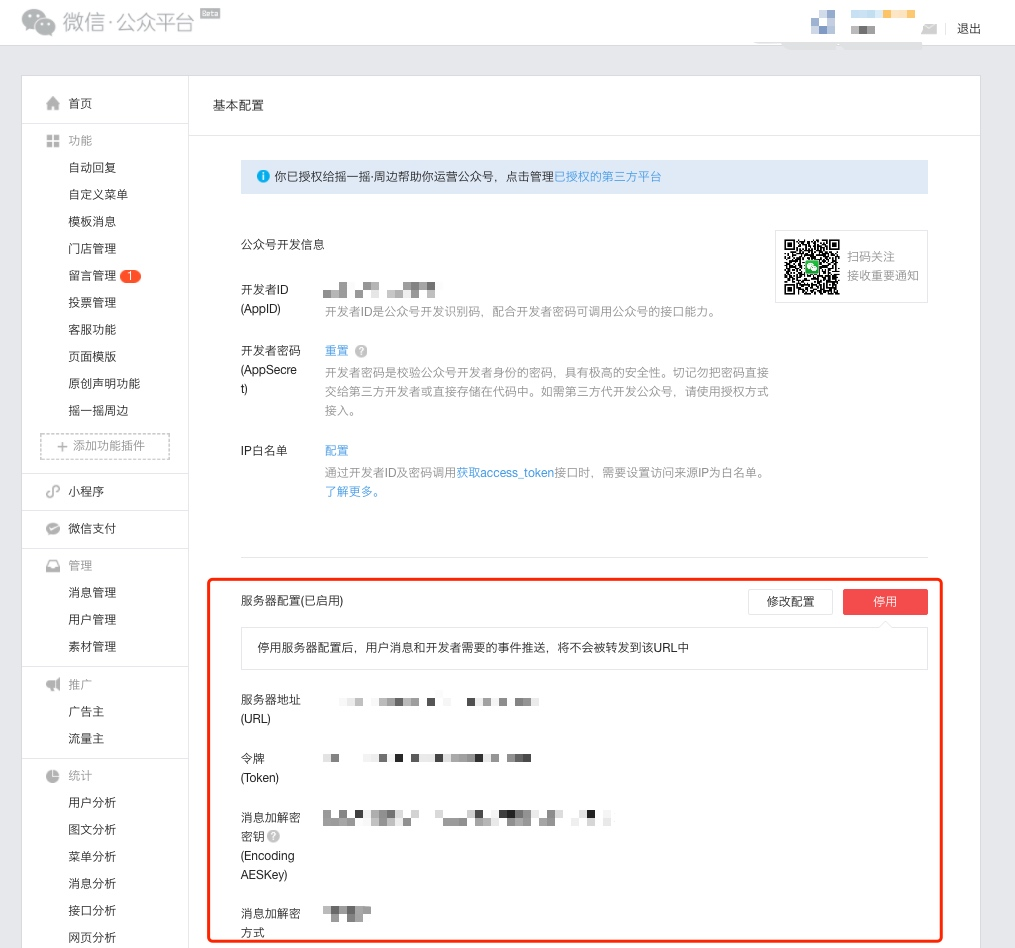
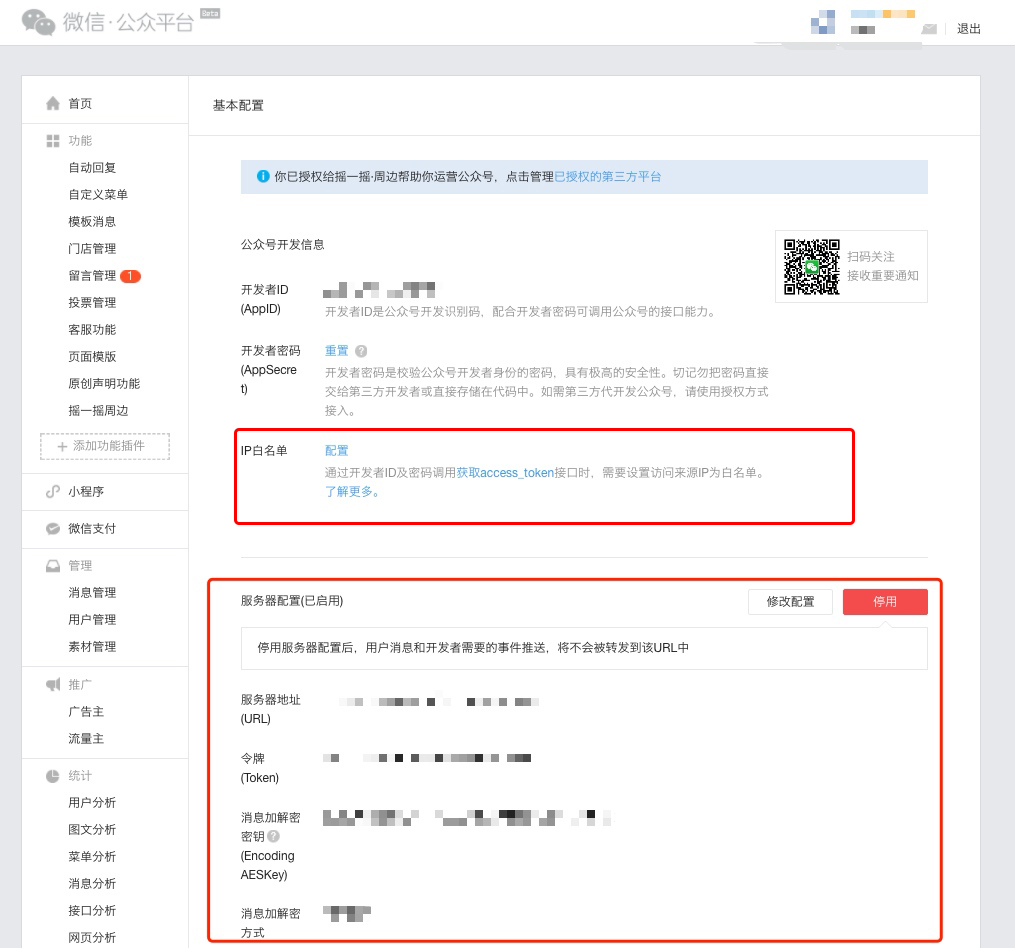
update weixin notify doc

diff --git a/paas-ce/paas/paas/esb/apps/guide/mdfiles/zh-hans/weixin_component_guide.md b/paas-ce/paas/paas/esb/apps/guide/mdfiles/zh-hans/weixin_component_guide.md
@@ -1,11 +1,10 @@
 # 微信消息组件
-> <font style="font-size:14px;">蓝鲸微信消息可通过微信公众号，微信企业号或者企业微信三种方式进行通知,
-> 在配置前请先阅读三种方式的差异性，再选择其中一种方式进行配置</font>
+> <font style="font-size:14px;">蓝鲸微信消息可通过微信公众号或者企业微信2种方式进行通知,
+> 在配置前请先阅读2种方式的差异性，再选择其中一种方式进行配置</font>
 
 | <div style="width:80px">通知方式</div> | 用户绑定 | open_paas模块所在服务器配置 | <div style="width:120px">微信公众平台配置</div> |
 | --- | --- | --- | --- |
 | 微信公众号 | 用户客户端需要有外网或者至少能访问微信相关链接 | (1)必须要有外网或者能访问微信提供的API<br>(2)需要反向代理，能够让代理转发到http://\{paas_domain\}/console/user_center/weixin/mp/callback/| (1)服务器配置<br>(2)消息模板配置 |
-| 微信企业号 | 用户客户端需要有外网或者至少能访问微信相关链接 | 必须要有外网或者能访问微信提供的API | 可信任域名配置 |
 | 企业微信 | 用户客户端需要有外网或者至少能访问微信相关链接 | 必须要有外网或者能访问微信提供的API | 授权回调域配置 |
 
 ### 前提准备
@@ -15,7 +14,7 @@
 # 微信提供的API 协议均为https
 # 微信公众号
 api.weixin.qq.com
-# 微信企业号/ 企业微信
+# 企业微信
 qyapi.weixin.qq.com
 ```
 
@@ -25,13 +24,6 @@ qyapi.weixin.qq.com
 # 微信提供的API 协议均为https
 # 微信公众号
 mp.weixin.qq.com
-# 微信企业号
-qy.weixin.qq.com
-open.weixin.qq.com
-res.wx.qq.com
-rescdn.qqmail.com
-long.open.weixin.qq.com
-wx.qlogo.cn
 # 企业微信
 open.work.weixin.qq.com
 rescdn.qqmail.com
@@ -40,7 +32,7 @@ js.aq.qq.com
 
 ### 入口说明
 * 微信公众号： https://mp.weixin.qq.com/
-* 微信企业号/企业微信：https://work.weixin.qq.com/
+* 企业微信：https://work.weixin.qq.com/
 * 蓝鲸微信组件配置入口：http://{paas_domain}/esb/manager/index/, 通道管理 → 找到通道名称为“发送微信消息”的组件 → 组件配置
 * 蓝鲸用户微信绑定入口： http://{paas_domain}, 个人中心 → 微信绑定
 
@@ -66,13 +58,16 @@ js.aq.qq.com
 
 * 若已经添加模块库或者已经搜索到“蓝鲸消息通知”的模板库，点击详情进入该模板并添加该模板，添加后在“功能 → 模板消息 → 我的模板”中将看到添加的消息模板，其中的模版ID是我们后续配置组件需要的
 
-#### 微信公众号 → 服务器配置
+#### 微信公众号 → IP白名单和服务器配置
 > <font style="font-size:14px;">请先在微信公众平台上查看公众号后台 → 开发 → 基本配置，是否已经配置了服务器配置（服务器地址，令牌，消息加解密密钥，消息加解密方式）![](/static/esb/guide/weixin_component_guide/15081252708641.jpg)</font>
 
-##### 1. 微信公众平台上已配置了服务器配置
+##### 1. 基本配置 → IP白名单
+由于ESB发送微信消息需要调用微信获取AccessToken接口，所以需要在“基本配置 → 公众号开发者信息 → IP白名单”中配置蓝鲸PaaS部署的机器IP
+
+##### 2. 微信公众平台上已配置了服务器配置
 联系配置了服务器配置的人员，请其协助将在服务器地址响应的服务中添加调用http://{paas_domain}/console/user_center/weixin/mp/callback/（透传微信事件推送）
 
-##### 2. 微信公众平台上未配置服务器配置
+##### 3. 微信公众平台上未配置服务器配置
 填写服务器配置（填写完，<font style="color:red">先不要点击提交</font>）
 
 * url 填写外网能够访问到的URL（暂时称为weixin_server_url）
@@ -97,30 +92,7 @@ js.aq.qq.com
 
 至此蓝鲸通过公众号发送消息的配置完成，请到最后一步用户绑定后验证配置是否正确
 
-### 二. 微信企业号
-#### 微信企业号配置
-* 配置用于蓝鲸消息通知的应用
-
-“微信企业号 → 应用中心” 可以选择已经存在的消息型应用或者新建一个类型为消息型的应用，将应用的可见范围设置为全企业人员（或至少设置为可能需要接送微信消息通知的人员）
-
-* 配置登录授权域名
-
-（1）“微信企业号 → 设置 → 权限管理” 新建普通管理组，将用于蓝鲸消息通知的应用添加到该普通管理组的应用权限中
-
-（2）“微信企业号 → 设置 → 功能设置 → 登录授权” 在刚刚创建的普通管理组项设置可信域名为：{paas_domain} （该域名只需要企业内部能访问即可，不需要配置为外网域名）
-
-#### 蓝鲸平台 → API网关
-> <font style="font-size:14px;">蓝鲸微信组件配置入口：http:/{paas_domain}/esb/manager/index/, 通道管理 → 找到通道名称为“发送微信消息”的组件 → 组件配置
-![](/static/esb/guide/weixin_component_guide/15081428561464.jpg)</font>
-
-* wx_type 选择“微信企业号”
-* wx_qy_corpid 【“微信企业号 → 设置 → 权限管理 → 对应的普通管理组“】CorpID
-* wx_qy_corpsecret【“微信企业号 → 设置 → 权限管理 → 对应的普通管理组”】Secret
-* wx_qy_agentid 【“微信企业号 → 应用中心 → 对应的应用】应用ID
-
-至此蓝鲸通过企业号发送消息的配置完成，请到最后一步用户绑定后验证配置是否正确
-
-### 三. 企业微信
+### 二. 企业微信
 #### 企业微信配置
 * 配置用于蓝鲸消息通知的应用
 
@@ -129,7 +101,7 @@ js.aq.qq.com
 * 配置Web网页登录授权回调域
 
 “企业微信 → 企业应用 → 选择对应的应用 → 企业微信授权登录 → 设置 → Web网页
- → 设置授权回调域” 设置{paas_domain}为登录授权回到域
+ → 设置授权回调域” 设置{paas_domain}为登录授权回调域
 
 #### 蓝鲸平台 → API网关
 > <font style="font-size:14px;">蓝鲸微信组件配置入口：http:/{paas_domain}/esb/manager/index/, 通道管理 → 找到通道名称为“发送微信消息”的组件 → 组件配置
@@ -148,9 +120,7 @@ js.aq.qq.com
 点击"绑定微信"，扫描绑定即可
 需要注意：
 
-（1）若是企业号，需要用户提前关注企业号
-
-（2）若是企业微信，需要用户用企业微信APP进行扫描
+（1）若是企业微信，需要用户用企业微信APP进行扫描
 
 ### 其它注意项
 * **组件会根据开发者ID和开发者密码，获取access_token发送模版消息等，业务若需集中管理 access_token，可优化 components/apis/weixin_mp/get_token.py 中 access_token 获取逻辑**
@@ -159,6 +129,3 @@ js.aq.qq.com
 （1）用户客户端未能访问外网或无法访问微信相关URL
 
 （2）open_paas所在服务器服务访问外网或至少无法请求微信相关接口
-
-
-
